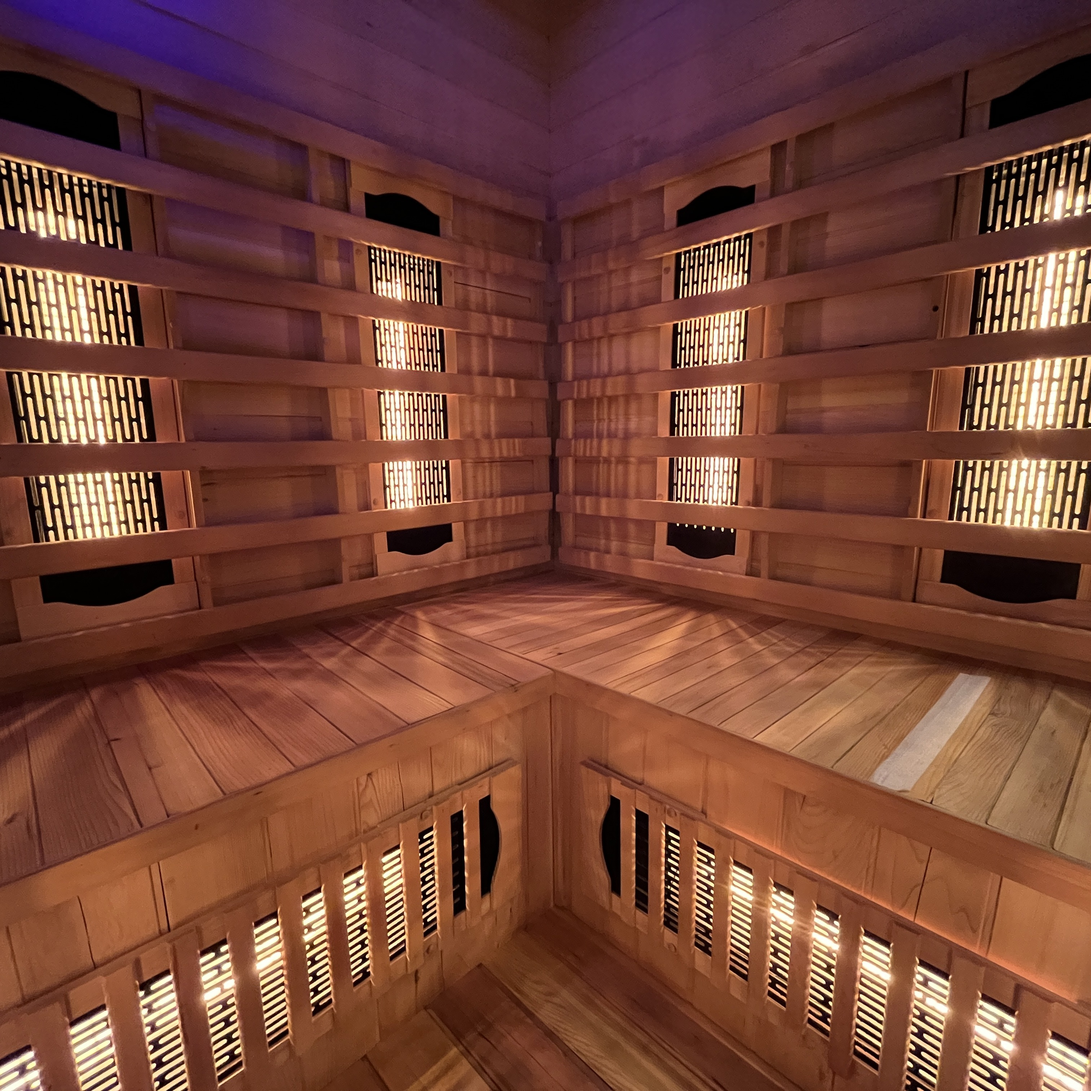
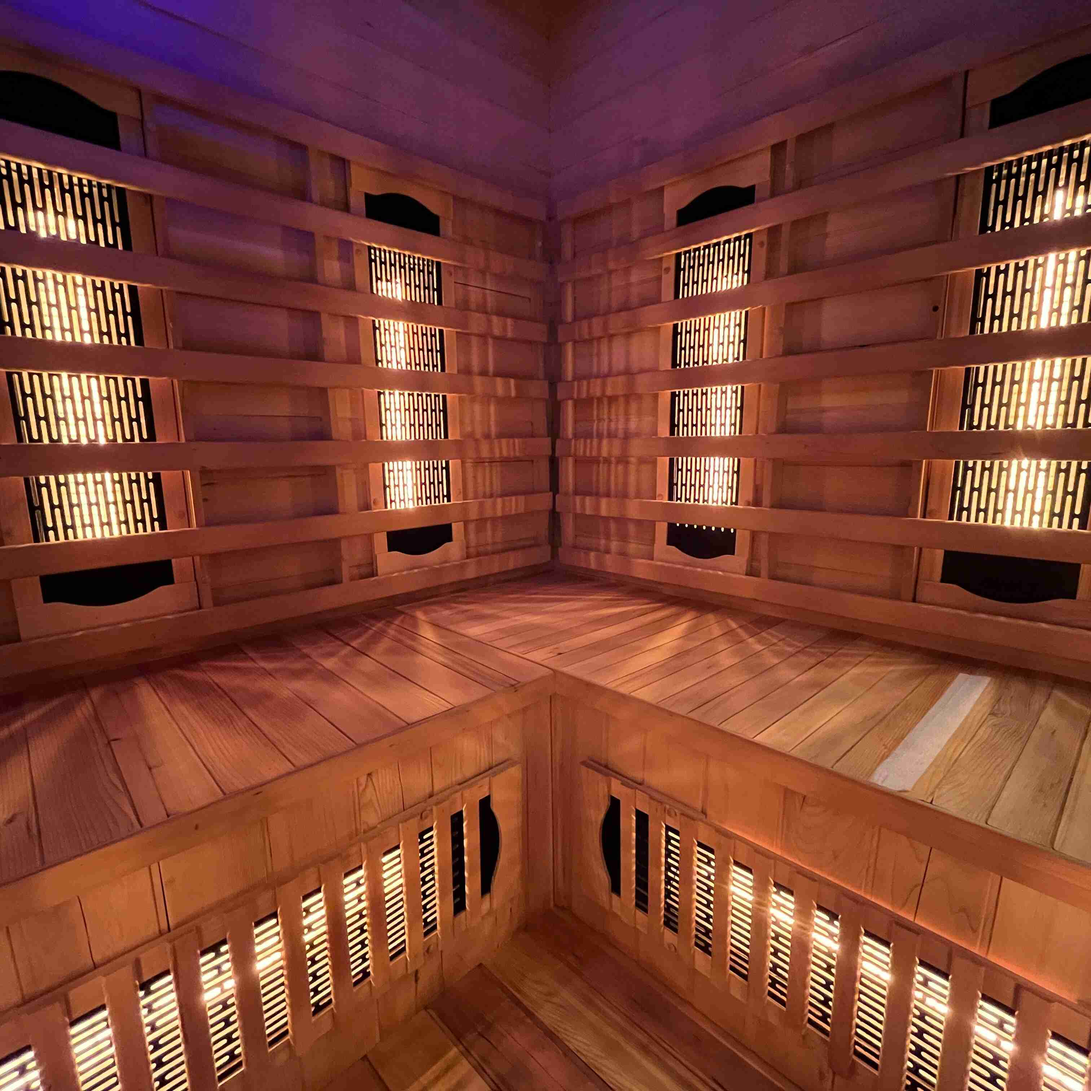
feat: image optimization

diff --git a/components/MainCarousel/MainCarousel.tsx b/components/MainCarousel/MainCarousel.tsx
@@ -2,16 +2,30 @@
 
 import React, { useState, useEffect } from 'react';
 import Image from 'next/image';
-import carouselImages from '../../configs/carousel.config';
+import {
+  CarouselImage,
+  carouselImages,
+  carouselImagesPortrait,
+} from '../../configs/carousel.config';
 import styles from './main-carousel.module.scss';
 
 function MainCarousel() {
   const [currentIndex, setCurrentIndex] = useState(0);
+  const [images, setImages] = useState<CarouselImage[] | null>(null);
+  const [imagesLength, setImagesLength] = useState<number>(0);
 
   useEffect(() => {
+    if (window.innerWidth <= 450) {
+      setImages(carouselImagesPortrait);
+      setImagesLength(carouselImagesPortrait.length);
+    } else {
+      setImages(carouselImages);
+      setImagesLength(carouselImages.length);
+    }
+
     const timer = setInterval(() => {
       setCurrentIndex((prevIndex) =>
-        prevIndex === carouselImages.length - 1 ? 0 : prevIndex + 1,
+        prevIndex === imagesLength - 1 ? 0 : prevIndex + 1,
       );
     }, 3000);
 
@@ -20,18 +34,21 @@ function MainCarousel() {
 
   return (
     <div className={styles.carousel}>
-      {carouselImages.map((image, index) => (
-        <Image
-          key={image.name}
-          src={image.file}
-          className={styles.carousel__image}
-          style={{ opacity: index === currentIndex ? 1 : 0 }}
-          alt={image.name}
-          fill
-          sizes="100vw"
-          placeholder="blur"
-        />
-      ))}
+      {images &&
+        images.map((image, index) => (
+          <Image
+            key={image.name}
+            src={image.file}
+            className={styles.carousel__image}
+            style={{ opacity: index === currentIndex ? 1 : 0 }}
+            alt={image.name}
+            quality={100}
+            fill
+            sizes="100vw"
+            placeholder="blur"
+            priority
+          />
+        ))}
     </div>
   );
 }

diff --git a/configs/carousel.config.ts b/configs/carousel.config.ts
@@ -1,10 +1,21 @@
+import { StaticImageData } from 'next/image';
 import image1 from '../public/carousel/1.jpg';
 import image2 from '../public/carousel/2.jpg';
 import image3 from '../public/carousel/3.jpg';
 import image4 from '../public/carousel/4.jpg';
 import image5 from '../public/carousel/5.jpg';
+import imagePortrait1 from '../public/carousel/portrait/1.jpg';
+import imagePortrait2 from '../public/carousel/portrait/2.jpg';
+import imagePortrait3 from '../public/carousel/portrait/3.jpg';
+import imagePortrait4 from '../public/info-section/sauna.jpg';
+import imagePortrait5 from '../public/info-section/inhalation.jpg';
 
-const carouselImages = [
+export interface CarouselImage {
+  name: string;
+  file: StaticImageData;
+}
+
+export const carouselImages: CarouselImage[] = [
   { name: 'grota', file: image1 },
   { name: 'lampa solna', file: image2 },
   { name: 'osadzanie soli', file: image3 },
@@ -12,4 +23,10 @@ const carouselImages = [
   { name: 'grota solna', file: image5 },
 ];
 
-export default carouselImages;
+export const carouselImagesPortrait: CarouselImage[] = [
+  { name: 'lampa solna', file: imagePortrait1 },
+  { name: 'osadzanie soli', file: imagePortrait2 },
+  { name: 'krzesła w grocie', file: imagePortrait3 },
+  { name: 'sauna infrared', file: imagePortrait4 },
+  { name: 'ściana solna', file: imagePortrait5 },
+];

diff --git a/components/layout/Footer/Footer.tsx b/components/layout/Footer/Footer.tsx
@@ -20,6 +20,7 @@ function Footer() {
           <Link
             className={styles.footer__contactLink}
             href={contacts.googleMapLink}
+            target="_blank"
           >
             {contacts.address}
           </Link>
@@ -29,6 +30,7 @@ function Footer() {
           <Link
             className={styles.footer__contactLink}
             href={`mailto:${contacts.email}`}
+            target="_blank"
           >
             {contacts.email}
           </Link>
@@ -37,7 +39,8 @@ function Footer() {
           <PhoneOutlined className={styles.footer__contactIcon} />
           <Link
             className={styles.footer__contactLink}
-            href={`tel://${contacts.telephone}`}
+            href={`tel:${contacts.telephone.replaceAll(' ', '')}`}
+            target="_blank"
           >
             {contacts.telephone}
           </Link>

diff --git a/components/Contacts/ContactsInfo/ContactsInfo.tsx b/components/Contacts/ContactsInfo/ContactsInfo.tsx
@@ -10,8 +10,15 @@ function ContactsInfo() {
       <div className={styles.contactsInfo__block}>
         <h3 className={styles.contactsInfo__title}>Kontakt</h3>
         <p>{contacts.address}</p>
-        <Link href={`tel://${contacts.telephone}`}>{contacts.telephone}</Link>
-        <Link href={`mailto:${contacts.email}`}>{contacts.email}</Link>
+        <Link
+          href={`tel:${contacts.telephone.replaceAll(' ', '')}`}
+          target="_blank"
+        >
+          {contacts.telephone}
+        </Link>
+        <Link href={`mailto:${contacts.email}`} target="_blank">
+          {contacts.email}
+        </Link>
       </div>
       <div className={styles.contactsInfo__block}>
         <h3 className={styles.contactsInfo__title}>Godziny pracy</h3>

diff --git a/app/sass/mixins.scss b/app/sass/mixins.scss
@@ -121,11 +121,16 @@
 }
 
 @mixin card-section-background {
-  background-image: linear-gradient(to bottom, rgba(0, 0, 0, 0.5) 0%, rgba(0, 0, 0, 0) 100%), url("../../public/info-section/price.jpg");
+  background-image: linear-gradient(to bottom, rgba(0, 0, 0, 0.5) 0%, rgba(0, 0, 0, 0) 100%), url("../../public/card-section/background.jpg");
   background-repeat: no-repeat;
   background-position: center;
   background-size: cover;
   background-attachment: fixed;
+
+  @include media-m {
+    background-image: linear-gradient(to bottom, rgba(0, 0, 0, 0.5) 0%, rgba(0, 0, 0, 0) 100%), url("../../public/card-section/background-portrait.jpg");
+    background-attachment: scroll;
+  }
 }
 
 @mixin card {
@@ -222,5 +227,4 @@
     @content;
   }
 }
-
 

diff --git a/components/SaltCaveBenefits/BenefitCard/BenefitCard.tsx b/components/SaltCaveBenefits/BenefitCard/BenefitCard.tsx
@@ -10,7 +10,7 @@ interface Props {
 function BenefitCard({ benefit }: Props) {
   return (
     <article className={styles.benefitCard}>
-      <Image className={styles.benefitCard__icon} src={benefit.icon} alt="" />
+      <Image src={benefit.icon} className={styles.benefitCard__icon} alt="" />
       <h3 className={styles.benefitCard__title}>{benefit.title}</h3>
       <p className={styles.benefitCard__text}>{benefit.text}</p>
     </article>

diff --git a/components/layout/InfoSection/InfoSection.tsx b/components/layout/InfoSection/InfoSection.tsx
@@ -22,9 +22,11 @@ function InfoSection({ sectionInfo, isDark = false }: IProps) {
         }`}
       >
         <Image
-          className={styles.infoSection__picture}
           src={sectionInfo.picture.file}
+          className={styles.infoSection__picture}
           alt={sectionInfo.picture.alt}
+          quality={100}
+          placeholder="blur"
         />
 
         <div className={styles.infoSection__textBlock}>

diff --git a/components/Price/PartnersCard/PartnersCard.tsx b/components/Price/PartnersCard/PartnersCard.tsx
@@ -12,8 +12,8 @@ function PartnersCard() {
         {partners.map((card) => (
           <Link href={card.link} target="_blank" key={card.name}>
             <Image
-              className={styles.partners__card}
               src={card.image}
+              className={styles.partners__card}
               alt={`${card.name} card`}
             />
           </Link>

diff --git a/components/ui/Logo/Logo.tsx b/components/ui/Logo/Logo.tsx
@@ -12,9 +12,11 @@ function Logo({ isHeader = false }: IProps) {
   return (
     <Link href="/">
       <Image
-        className={isHeader ? styles.logo_header : styles.logo}
         src={logoLight}
+        className={isHeader ? styles.logo_header : styles.logo}
         alt="logo"
+        quality={100}
+        priority
       />
     </Link>
   );

diff --git a/components/ui/SocialMedia/SocialMedia.tsx b/components/ui/SocialMedia/SocialMedia.tsx
@@ -26,6 +26,8 @@ function SocialMedia({ isHeader = false, isDark = false }: IProps) {
             isHeader ? styles.socialMedia__booksyIcon_animated : ''
           }`}
           alt="booksy logo"
+          quality={100}
+          priority
         />
       </Link>
       <Link href={contacts.instagramLink} target="_blank">

diff --git a/components/Price/Price.tsx b/components/Price/Price.tsx
@@ -11,7 +11,7 @@ function Price() {
         <h2 className={styles.price__title}>Cennik</h2>
         <ul className={styles.price__list}>
           {prices.map((price) => (
-            <PriceCard price={price} />
+            <PriceCard price={price} key={price.label} />
           ))}
         </ul>
         <PartnersCard />

diff --git a/configs/contacts.config.ts b/configs/contacts.config.ts
@@ -16,7 +16,7 @@ interface IContacts {
 
 const contacts: IContacts = {
   address: 'Mandarynki 12, 02-796 Warszawa',
-  telephone: '+48 506 815 888',
+  telephone: '506 815 888',
   email: 'grota.solimare@gmail.com',
   booksyLink:
     'https://booksy.com/pl-pl/125722_grota-solna-solimare_zdrowie_3_warszawa',
